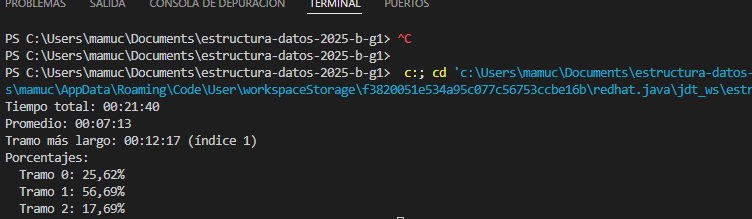
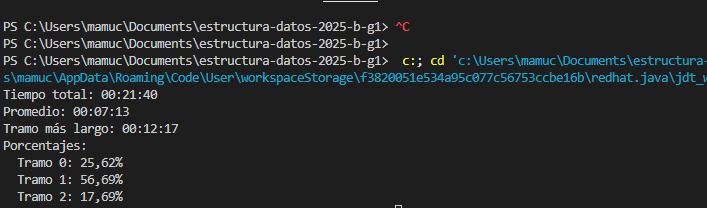
add exercises and README

Changed region(s): [[0.0, 0.0, 1.0, 0.9808], [0.529, 0.9808, 0.5601, 1.0]]

diff --git a/03-week/01-session/taller-tipos-datos-java/src/Ejercicio5_Tiempos.java b/03-week/01-session/taller-tipos-datos-java/src/Ejercicio5_Tiempos.java
@@ -36,7 +36,7 @@ public class Ejercicio5_Tiempos {
                 idxMax = i;
             }
         }
-        System.out.println("Tramo más largo: " + aHHMMSS(max) + " (índice " + idxMax + ")");
+        System.out.println("Tramo más largo: " + aHHMMSS(max) + " (" + idxMax + ")");
 
         System.out.println("Porcentajes:");
         for (int i = 0; i < segs.length; i++) {

diff --git a/03-week/01-session/taller-tipos-datos-java/README.md b/03-week/01-session/taller-tipos-datos-java/README.md
@@ -14,3 +14,75 @@ Comprendan los diferentes tipos de datos en Java, tanto primitivos como no primi
 - Suma todos esos resultados.
 - Si el total termina en cero (es decir, divisible entre 10), entonces el ISBN es válido.
 
+### Ejercicio2_RLE
+- Pide al usuario un texto.
+- Comprime ese texto contando cuántas veces seguidas aparece cada carácter.
+- Muestra el texto original, el comprimido y la proporción entre ambos.
+
+Cómo funciona:
+1. Entrada: El usuario escribe un texto.
+2. Compresión (compress):
+- Recorre el texto letra por letra.
+- Cuenta cuántas veces seguidas se repite cada carácter.
+- Guarda en el resultado el carácter seguido de su número de repeticiones.
+- Ejemplo: "aaabbc" → "a3b2c1".
+3. Salida: 
+- Muestra el original, el comprimido y el ratio (longitud comprimido ÷ longitud original).
+
+## Ejercicio3_Temperaturas
+Qué hace:
+1. Pide temperaturas.
+
+2. Calcula y muestra:
+- Mínima
+- Máxima
+- Promedio (media)
+- Desviación estándar (medida de dispersión).
+
+Cómo funciona:
+
+1. Entrada: El usuario escribe números separados por comas.
+2. Conversión: Divide el texto en partes (split) y lo transforma en un arreglo de double.
+3. Recorrido:
+- Encuentra el mínimo y el máximo.
+- Suma todas las temperaturas para el promedio.
+4. Desviación estándar:
+- Calcula la varianza: promedio de las diferencias al cuadrado respecto al promedio.
+- Saca la desviación estándar.
+5. Salida: Muestra los resultados.
+
+## Ejercicio4_ConversorBases
+Qué hace:
+
+1. Pide al usuario un número y la base en la que está escrito (puede ser 2 = binario, 10 = decimal o 16 = hexadecimal).
+2. Convierte ese número a las tres bases y las muestra.
+3. Usa long normalmente, pero si el número es demasiado grande, usa BigInteger para poder manejarlo sin límite de tamaño.
+
+Cómo funciona:
+
+1. Entrada:
+- El usuario ingresa un número como texto (String).
+- Ingresa la base de ese número.
+2. Conversión con long:
+- Intenta transformar el número con Long.parseLong(numero, base).w
+- Si funciona, lo imprime en binario, decimal y hexadecimal.
+3. Si el número es muy grande:
+- Lanza una excepción.
+- Convierte e imprime en las tres bases.
+4. Salida extra:
+- Indica si se usó BigInteger o no.
+
+## Ejercicio5_Tiempos
+Este programa toma una lista de tiempos escritos en el formato horas:minutos:segundos (HH:MM:SS):
+
+1. Convierte cada tiempo a segundos:
+- 00:05:33 → 333 segundoss
+- 00:12:17 → 737 segundoss
+- 00:03:50 → 230 segundos
+2. Suma todos los segundos → 1300 segundos, que equivalen a 00:21:40. Ese es el tiempo total.
+3. Calcula el promedio dividiendo 1300 entre 3 → 433 segundos, que son 00:07:13.
+4. Busca el tramo más largo: el mayor es 737 segundos, o sea 00:12:17, que está en el índice 1 de la lista.
+5. Calcula el porcentaje de cada tramo respecto al total:
+- Tramo 0: 25.62 %
+- Tramo 1: 56.69 %
+- Tramo 2: 17.69 %
